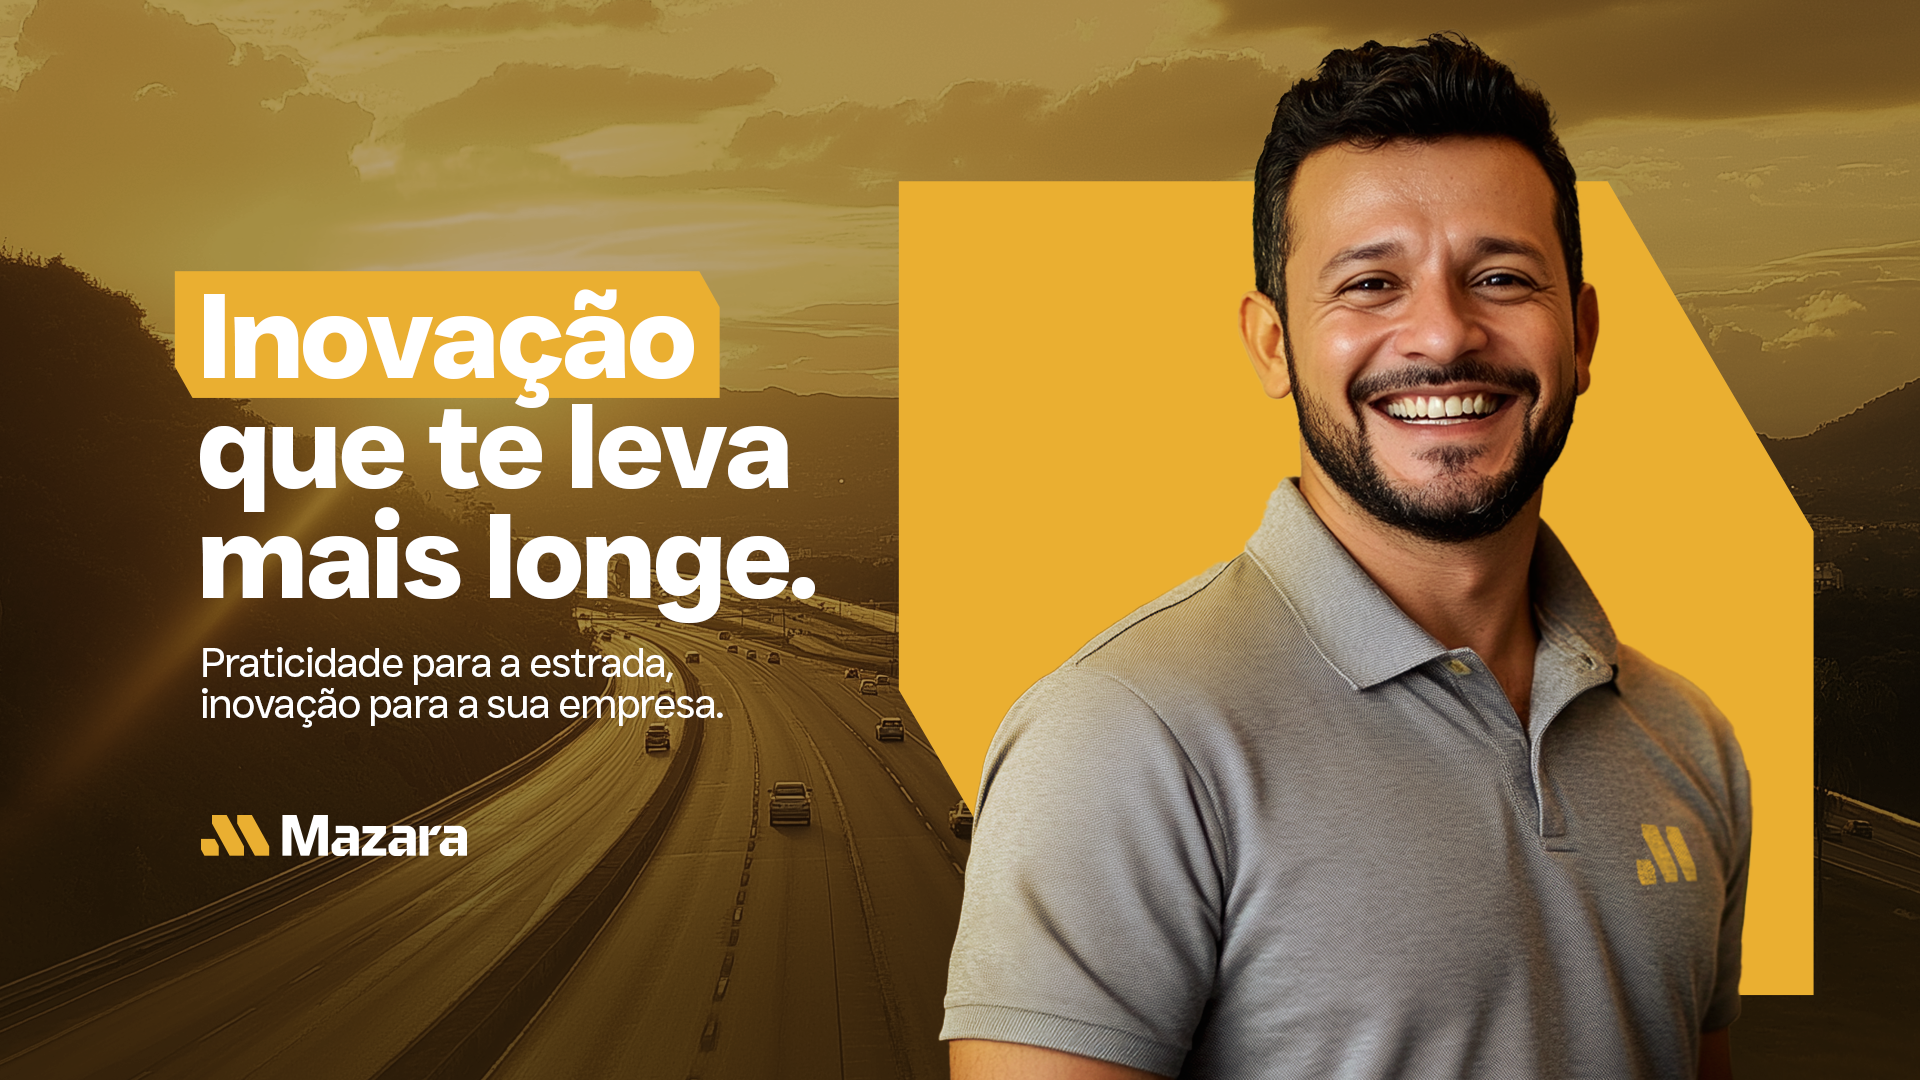
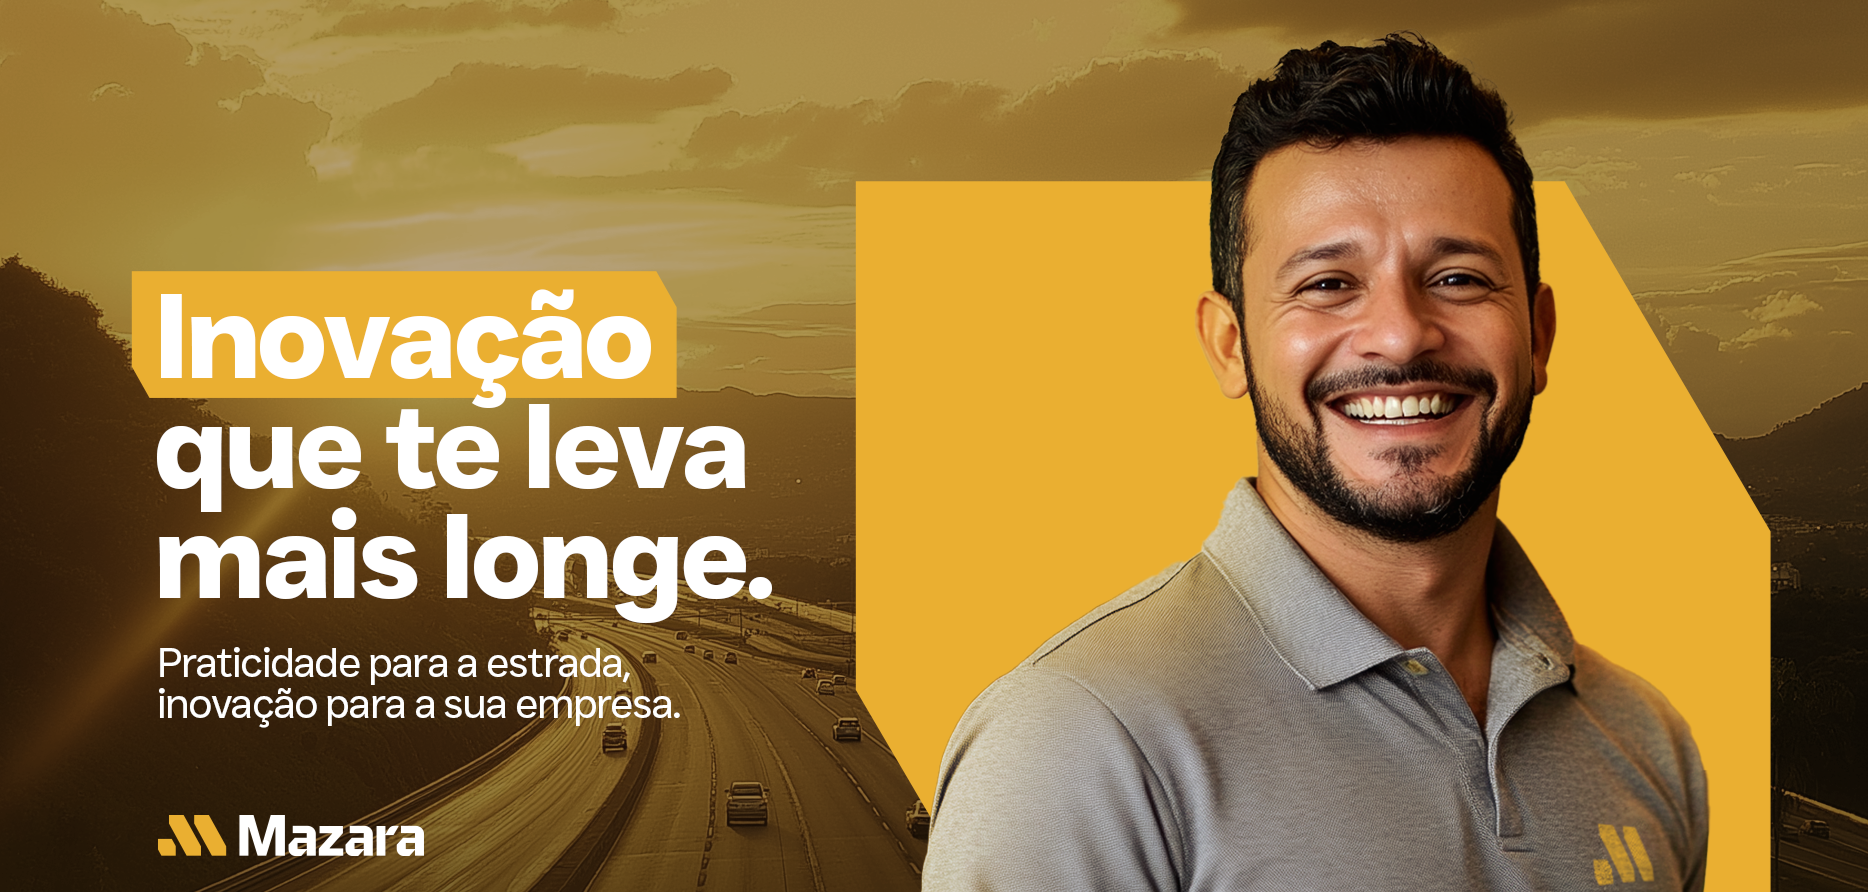
Adição de novas imagens e atualização de links no HTML; criação da página "Sobre nós" e ajustes de estilo no CSS.

diff --git a/index.html b/index.html
@@ -3,19 +3,20 @@
 <head>
     <meta charset="UTF-8">
     <meta name="viewport" content="width=device-width, initial-scale=1.0">
-    <link rel="shortcut icon" href="img/mazara_logo-removebg-preview.ico" type="image/x-icon">
+    <link rel="shortcut icon" href="img/logo/mazara_logo-removebg-preview.ico" type="image/x-icon">
     <link rel="stylesheet" href="https://cdnjs.cloudflare.com/ajax/libs/font-awesome/7.0.1/css/all.min.css">
     
     <script src="https://cdnjs.cloudflare.com/ajax/libs/jquery/3.7.1/jquery.min.js" integrity="sha512-v2CJ7UaYy4JwqLDIrZUI/4hqeoQieOmAZNXBeQyjo21dadnwR+8ZaIJVT8EE2iyI61OV8e6M8PP2/4hpQINQ/g==" crossorigin="anonymous" referrerpolicy="no-referrer"></script>
     <title>Mazara Equipamentos</title>
     <link rel="stylesheet" href="styles/style.css">
     <link rel="stylesheet" href="styles/header.css">
+    <link rel="stylesheet" href="styles/main.css">
 
 </head>
 <body>
     <header>
         <nav id = "navbar">
-            <img id = "mzr_logo" src="img/logoMazara.png" alt="Logo Mazara ">
+            <img id = "mzr_logo" src="img/logo/Mazara_Equipamentos_Horizontal.png" alt="Logo Mazara ">
 
             <ul id = "nav_list"> <!--Menu-->
                 <li class = "nav-item active"><a href= "#inicio">Início</a></li>
@@ -32,7 +33,6 @@
             <button id= "mobile_btn"> <!--Botão de menu em dispositivos com tela menor -->
             <i class = "fa-solid fa-bars"></i>
             </button>
-
         </nav>
 
         <div id = "mobile_menu_hamburguer">
@@ -51,11 +51,24 @@
         </div>
     </header>
 
-    <main>
-        <!---A main-->
+    <main id = "content"> 
+        <section id = "home" class = "home-section">
+         <div id = "banner_img" class = "banner_img">
+            <img src="img/banner/Banner_Inovacao_Pessoa.png" alt="Caminhão com cozinha Mazara">
+         </div>
+
+
+        </section>
+         
     </main>
 
+
+
+
     <footer>
+        <h1></h1>
+
+
     </footer>
     
 </body>

diff --git a/styles/header.css b/styles/header.css
@@ -15,7 +15,7 @@ header {
 }
 
 #mzr_logo {
-    width: 200px;
+    width: 190px;
     height: auto;
     margin-right: auto;
 }
@@ -30,7 +30,7 @@ header {
 
 .nav-item a {
     text-decoration: none;
-    color: black;
+    color: rgb(0, 0, 0);
     font-weight: 600;
 }
 
@@ -62,7 +62,7 @@ header {
     transition: left 0.4s ease; /* animação  */
 }
 
-@media screen and (max-width: 1100px){
+@media screen and (max-width: 1100px){ /* Estilos para telas menores que 1100px */
     #nav_list, 
     #navbar .btn-default {
         display: none;
@@ -97,10 +97,10 @@ header {
 
 /* Botão de fechar o menu em telas pequenas  */
 #mobile_menu_hamburguer .close-btn {
-    position: absolute;
+    position: absolute; /* Posiciona o botão no canto superior direito */
     top: 25px;
     right: 25px;
-    font-size: 3rem; /*Tamanho do botão X*/
+    font-size: 3rem; /*Tamanho do botão X*/ 
     background: transparent;
     border: none;
     cursor: pointer;
@@ -109,6 +109,3 @@ header {
 #mobile_menu_hamburguer .close-btn {
     color: black; 
 }
-
-
-/*SEPARAR POR PARTES EX: BOTÃO TAL -- MENU -- BOTÃO MENU*/

diff --git a/styles/main.css b/styles/main.css
@@ -1,0 +1,22 @@
+header {
+  width: 100%;
+  padding: 28px 8%;
+  position: relative;
+  background-color: #fff;
+  z-index: 10; /* Garante que o header fique acima de outros elementos */
+}
+
+.banner_img {
+  width: 100%; /* largura total */
+  background-image: url('img/banner/Banner_Inovacao_Pessoa.png'); /* caminho da imagem */
+  height: 200px;                 /* altura fixa */
+  background-size: contain;       /* mantém proporção */
+  background-repeat: no-repeat; /* não repete */
+  background-position: center;    /* centraliza */
+}
+.banner_img img {
+  width: 100%;
+  height: auto;
+  display: block; /* remove espaço embaixo da imagem */
+  margin:  auto; /* centraliza a imagem */
+}

diff --git a/sobre-nos.html b/sobre-nos.html
@@ -1,0 +1,19 @@
+Sobre nós
+Especialistas em cozinhas para caminhões fabricadas em chapas de ACM. Desde 2017, inovamos para levar praticidade, autonomia e conforto para suas aventuras. Nossa inovação acompanha você mais longe.
+
+Localização: SC-390, 1170 - Bela Vista, Lauro Müller - SC, 88880-000
+
+Horário de funcionamento:
+Segunda-feira: 07:00 – 16:48
+
+Terça-feira: 07:00 – 16:48
+
+Quarta-feira: 07:00 – 16:48
+
+Quinta-feira: 07:00 – 16:48
+
+Sexta-feira: 07:00 – 16:48
+
+Sábado: Fechado
+
+Domingo: Fechado

diff --git a/styles/style.css b/styles/style.css
@@ -22,12 +22,6 @@ body {
   font-weight: 600;
   box-shadow: 0px 0px 10px 2px rgba(0, 0, 0, 0.2);
   cursor: pointer;
-  transition: background-color .2s ease;
-}
-
-.btn-defalt:hover { /*Muda a cor do botão com o ponteiro*/
-  background-color: rgb(68, 59, 41);
-  transform: scale(1.05);
-  transition: all 0.5 ease;
+  transition: transform 0.2s ease;
 }
 

diff --git a/javascript/script.js b/javascript/script.js
@@ -1,4 +1,4 @@
-$(document).ready(function() {
+$(document).ready(function() { 
     $('#mobile_btn').click(function() {
         $('#mobile_menu_hamburguer').addClass('active');
     });
